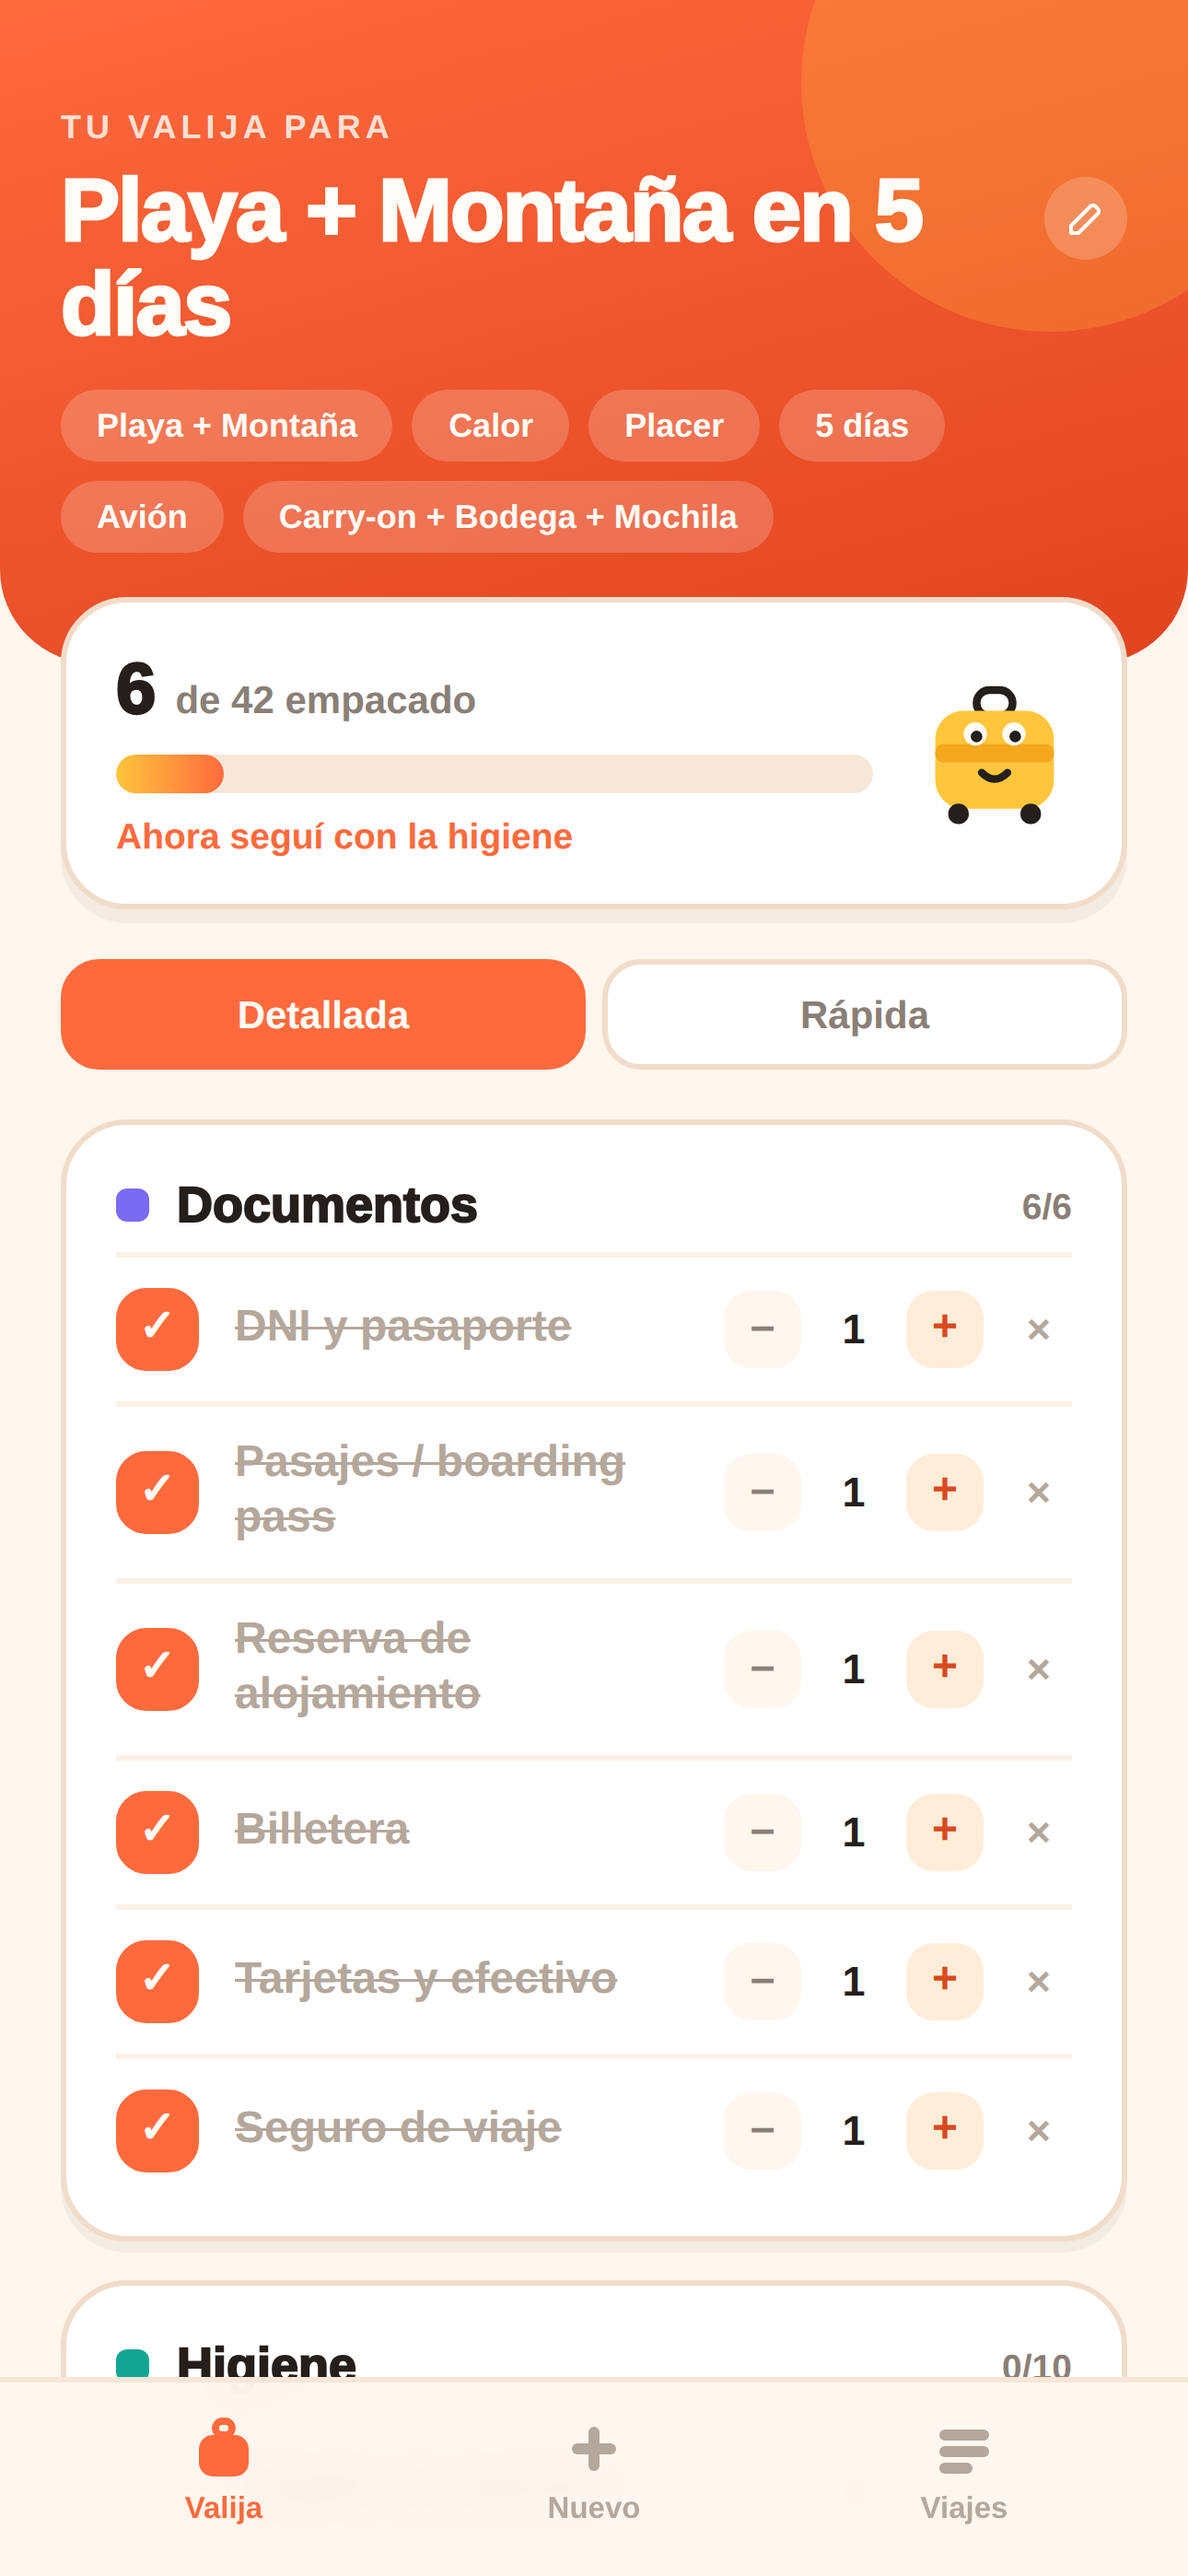
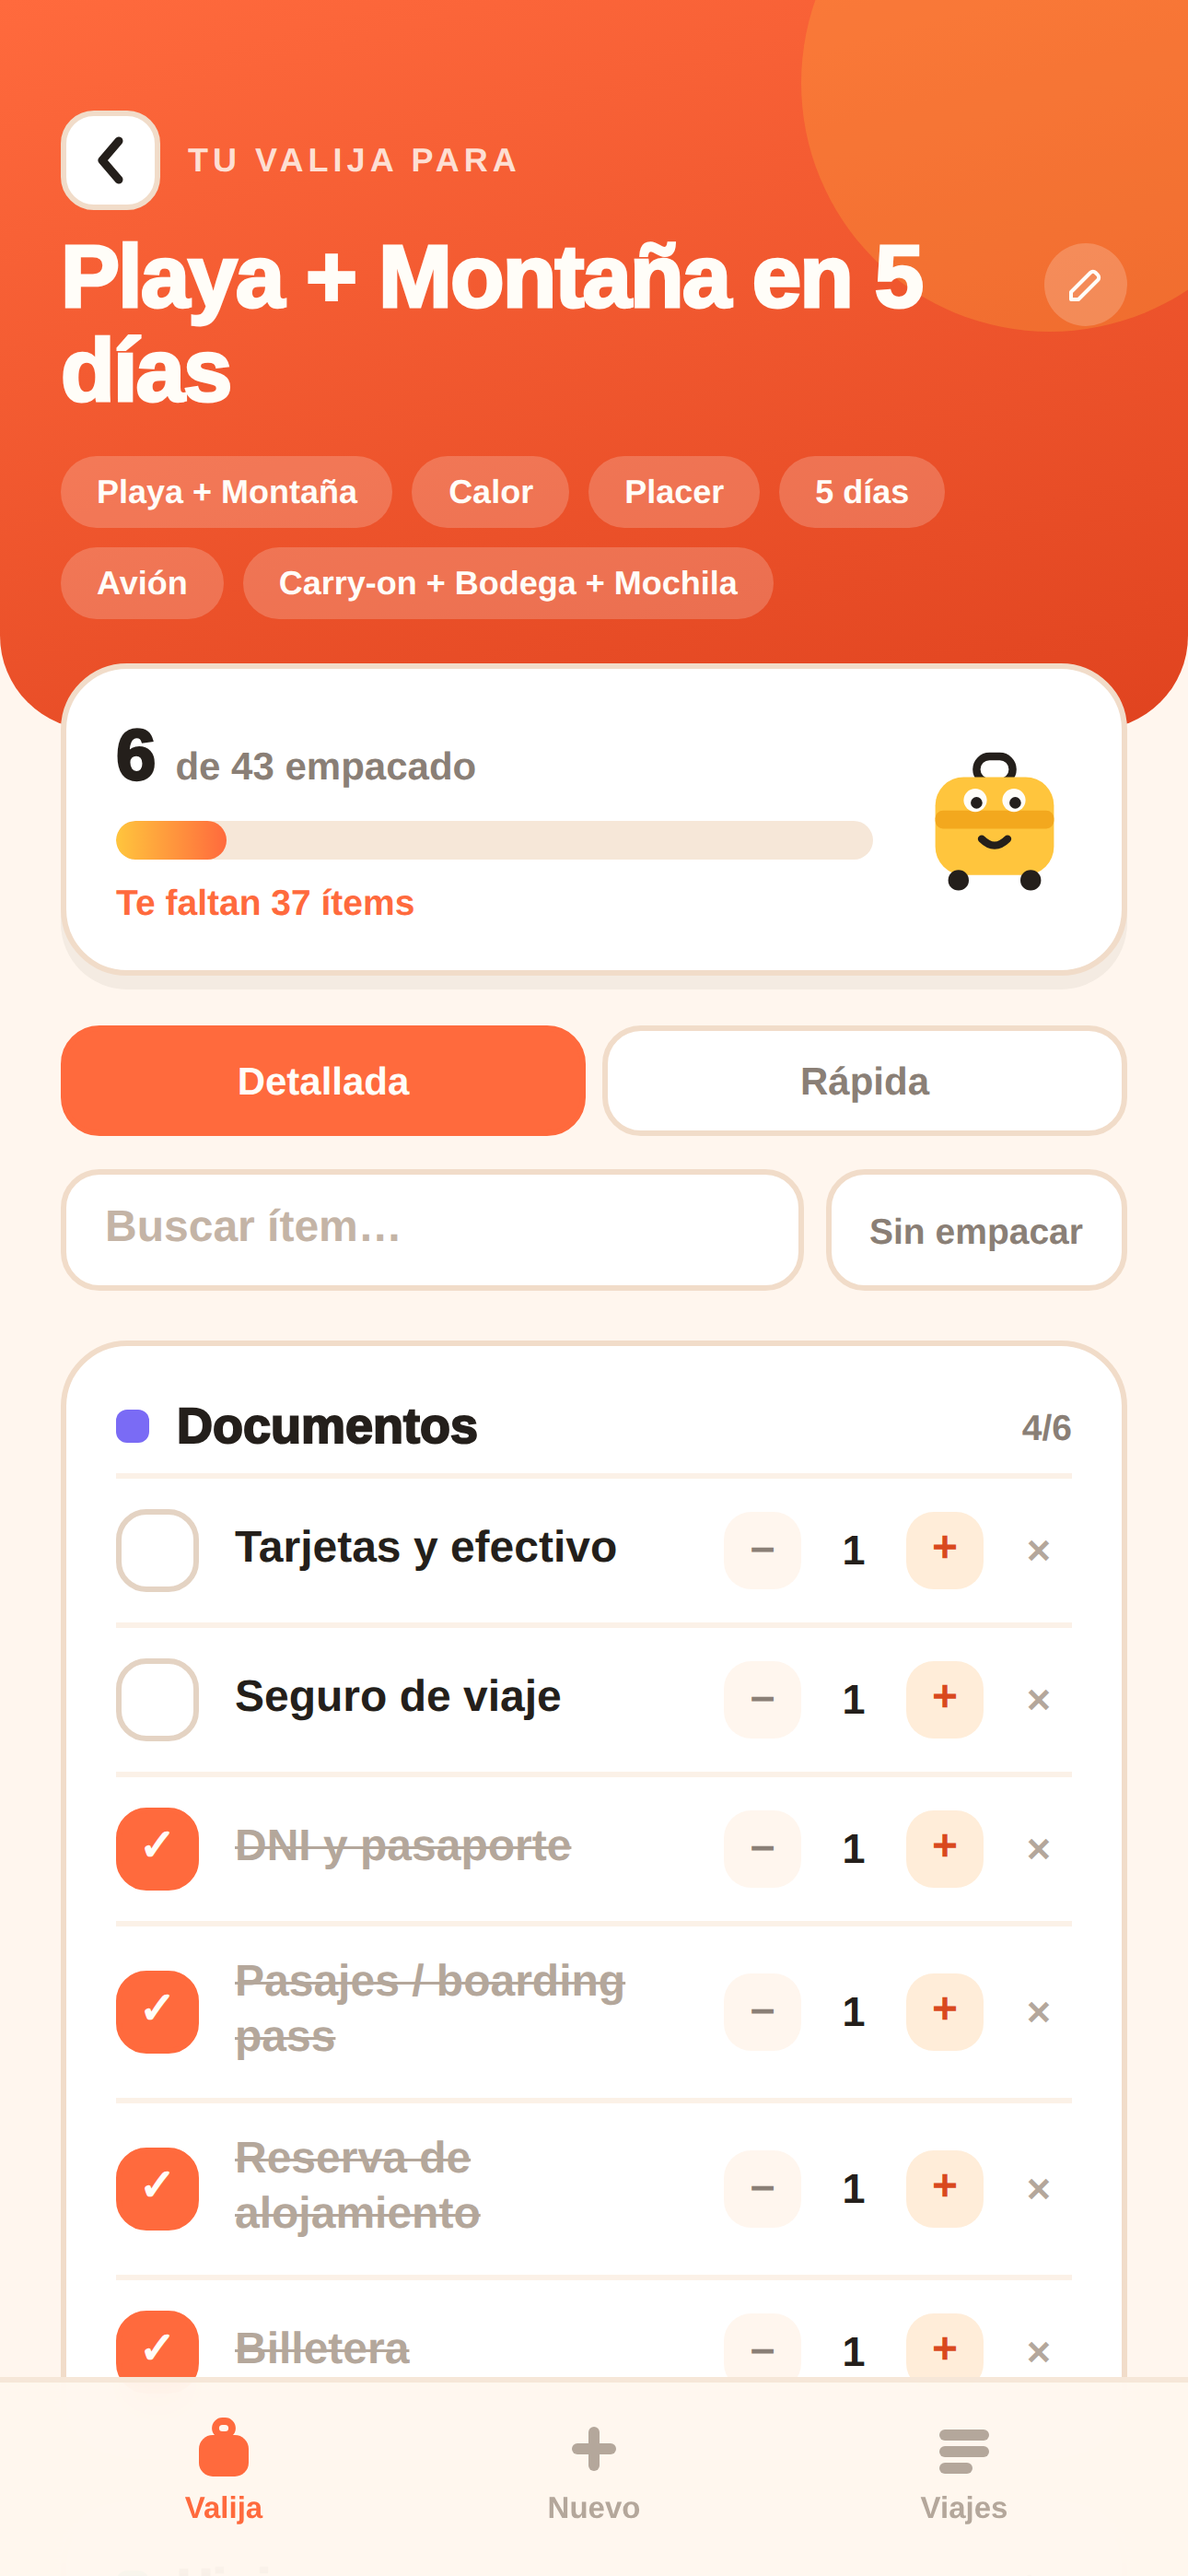
Preparar v1.0.0 para la primera subida al App Store
Sincroniza package.json con el Version/Build de Xcode (ambos en
1.0.0 / build 1) para esta primera subida real. Suma PrivacyInfo.xcprivacy
al proyecto de Xcode (existía el archivo pero no estaba agregado al
build), resincroniza el proyecto nativo con el build actual, corrige un
bug real en el generador de capturas (tildaba por posición, que ahora
cambia al bajar los tildados al fondo de la lista) y regenera las
capturas para App Store Connect.

Claude-Session: https://claude.ai/code/session_01BtbDStbXdAyYqgkPSGRJnC

Changed region(s): [[0.0, 0.0311, 1.0, 0.9335], [0.8682, 0.0622, 0.9612, 0.1245]]

diff --git a/CHANGELOG.md b/CHANGELOG.md
@@ -5,6 +5,38 @@ junto con el número de versión en `package.json` (visible en la pantalla
 de bienvenida de la app, abajo de todo). Ver `BACKLOG.md` para lo que
 todavía no se hizo.
 
+## v1.0.0
+
+Primera versión candidata a subir al App Store. Mismo código que traía
+v0.20.2 — este número existe para marcar el punto exacto de sincronía
+entre `package.json` (lo que ve la web) y el Version/Build de Xcode
+(lo que va a ver Apple), tal como se explicó en su momento: mientras se
+prueba por web el número sube libremente y no significa nada; el día de
+la primera subida real, ambos quedan alineados en 1.0.0 / build 1, y
+de acá en más cada subida nueva a la tienda sincroniza los dos.
+
+- **`PrivacyInfo.xcprivacy` sumado al proyecto de Xcode**: el archivo ya
+  existía en el repo (`ios/App/App/PrivacyInfo.xcprivacy`) pero nunca
+  había quedado agregado a `project.pbxproj` — sin eso, Xcode no lo
+  empaqueta en el `.ipa` aunque el archivo esté en la carpeta. Se agregó
+  a mano la referencia (`PBXFileReference`, `PBXBuildFile`, grupo y fase
+  de Resources) con el mismo patrón que usa el resto de los recursos del
+  proyecto.
+- **`ios/App/App/public` resincronizado**: `npm run build && npx cap
+  sync ios` para que el proyecto nativo tenga el build de producción
+  con todos los cambios hasta v0.20.2 (esa carpeta es generada, no se
+  versiona — hay que repetir este paso antes de cualquier Archive).
+- **Fix en `scripts/generate-screenshots.mjs`**: el generador de
+  capturas para App Store Connect tildaba ítems por posición en la
+  lista (`rows.nth(i)`) — desde que los tildados bajan al fondo de su
+  categoría (v0.20.1), esa posición cambia con cada click, y con
+  exactamente 6 clicks sobre una categoría de 6 ítems el resultado neto
+  terminaba siendo 0 tildados (se destildaban entre sí). Se cambió a
+  clickear por nombre de ítem, que no depende del orden. Capturas
+  regeneradas para los 3 tamaños de iPhone.
+- Versión bump a 1.0.0 en `package.json`, sin cambios de código más
+  allá de lo de arriba.
+
 ## v0.20.2
 
 - **Bebé y Camping pasan a ser Pro**: decisión del usuario. Se reusó el
